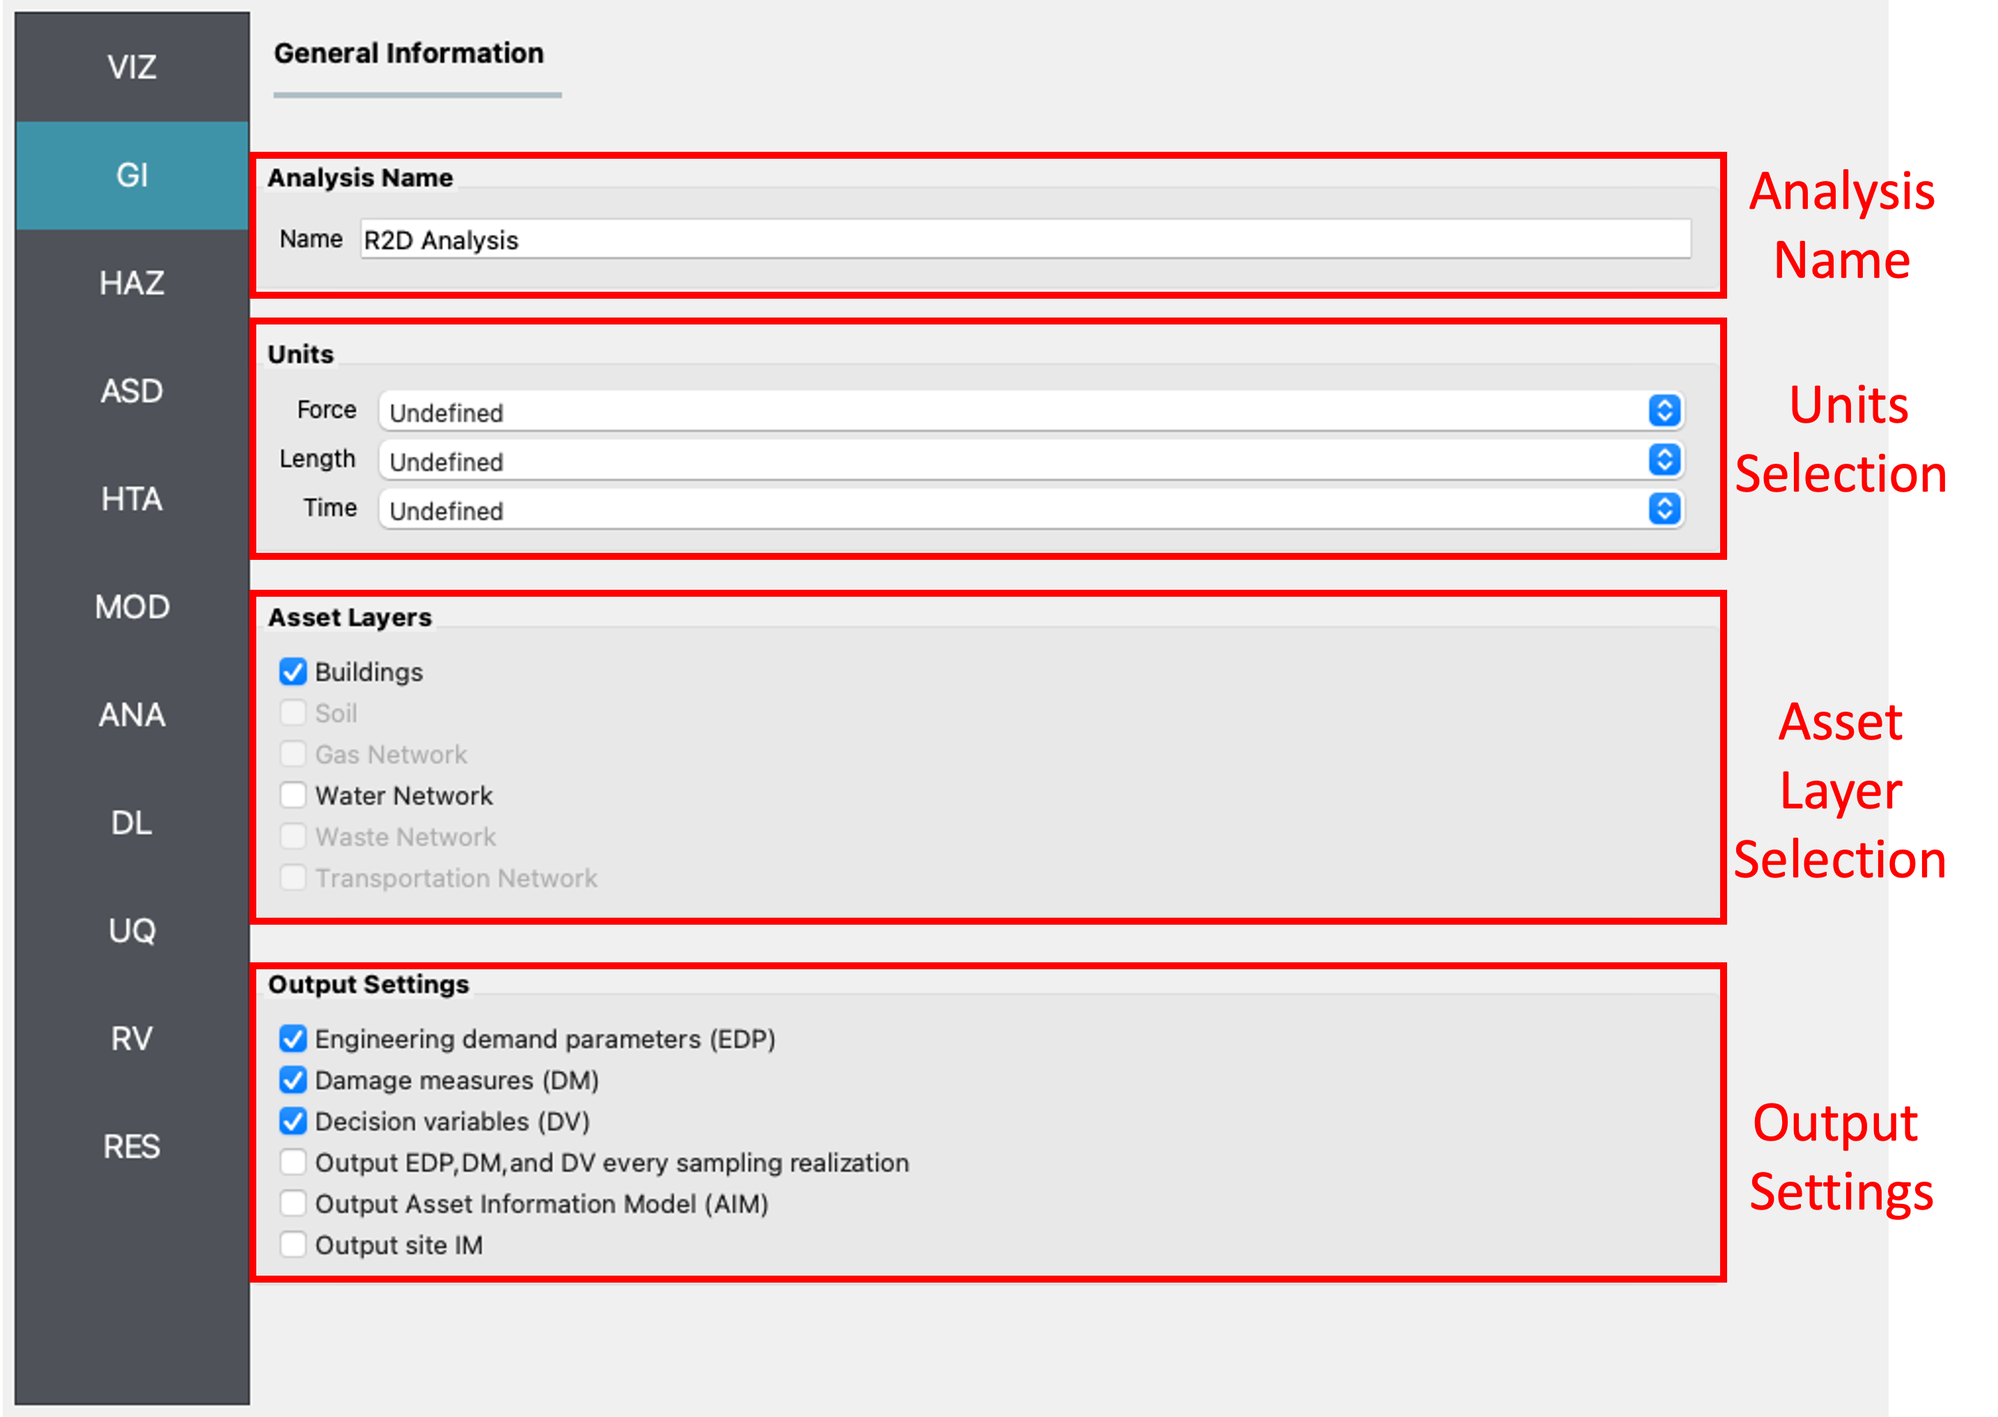
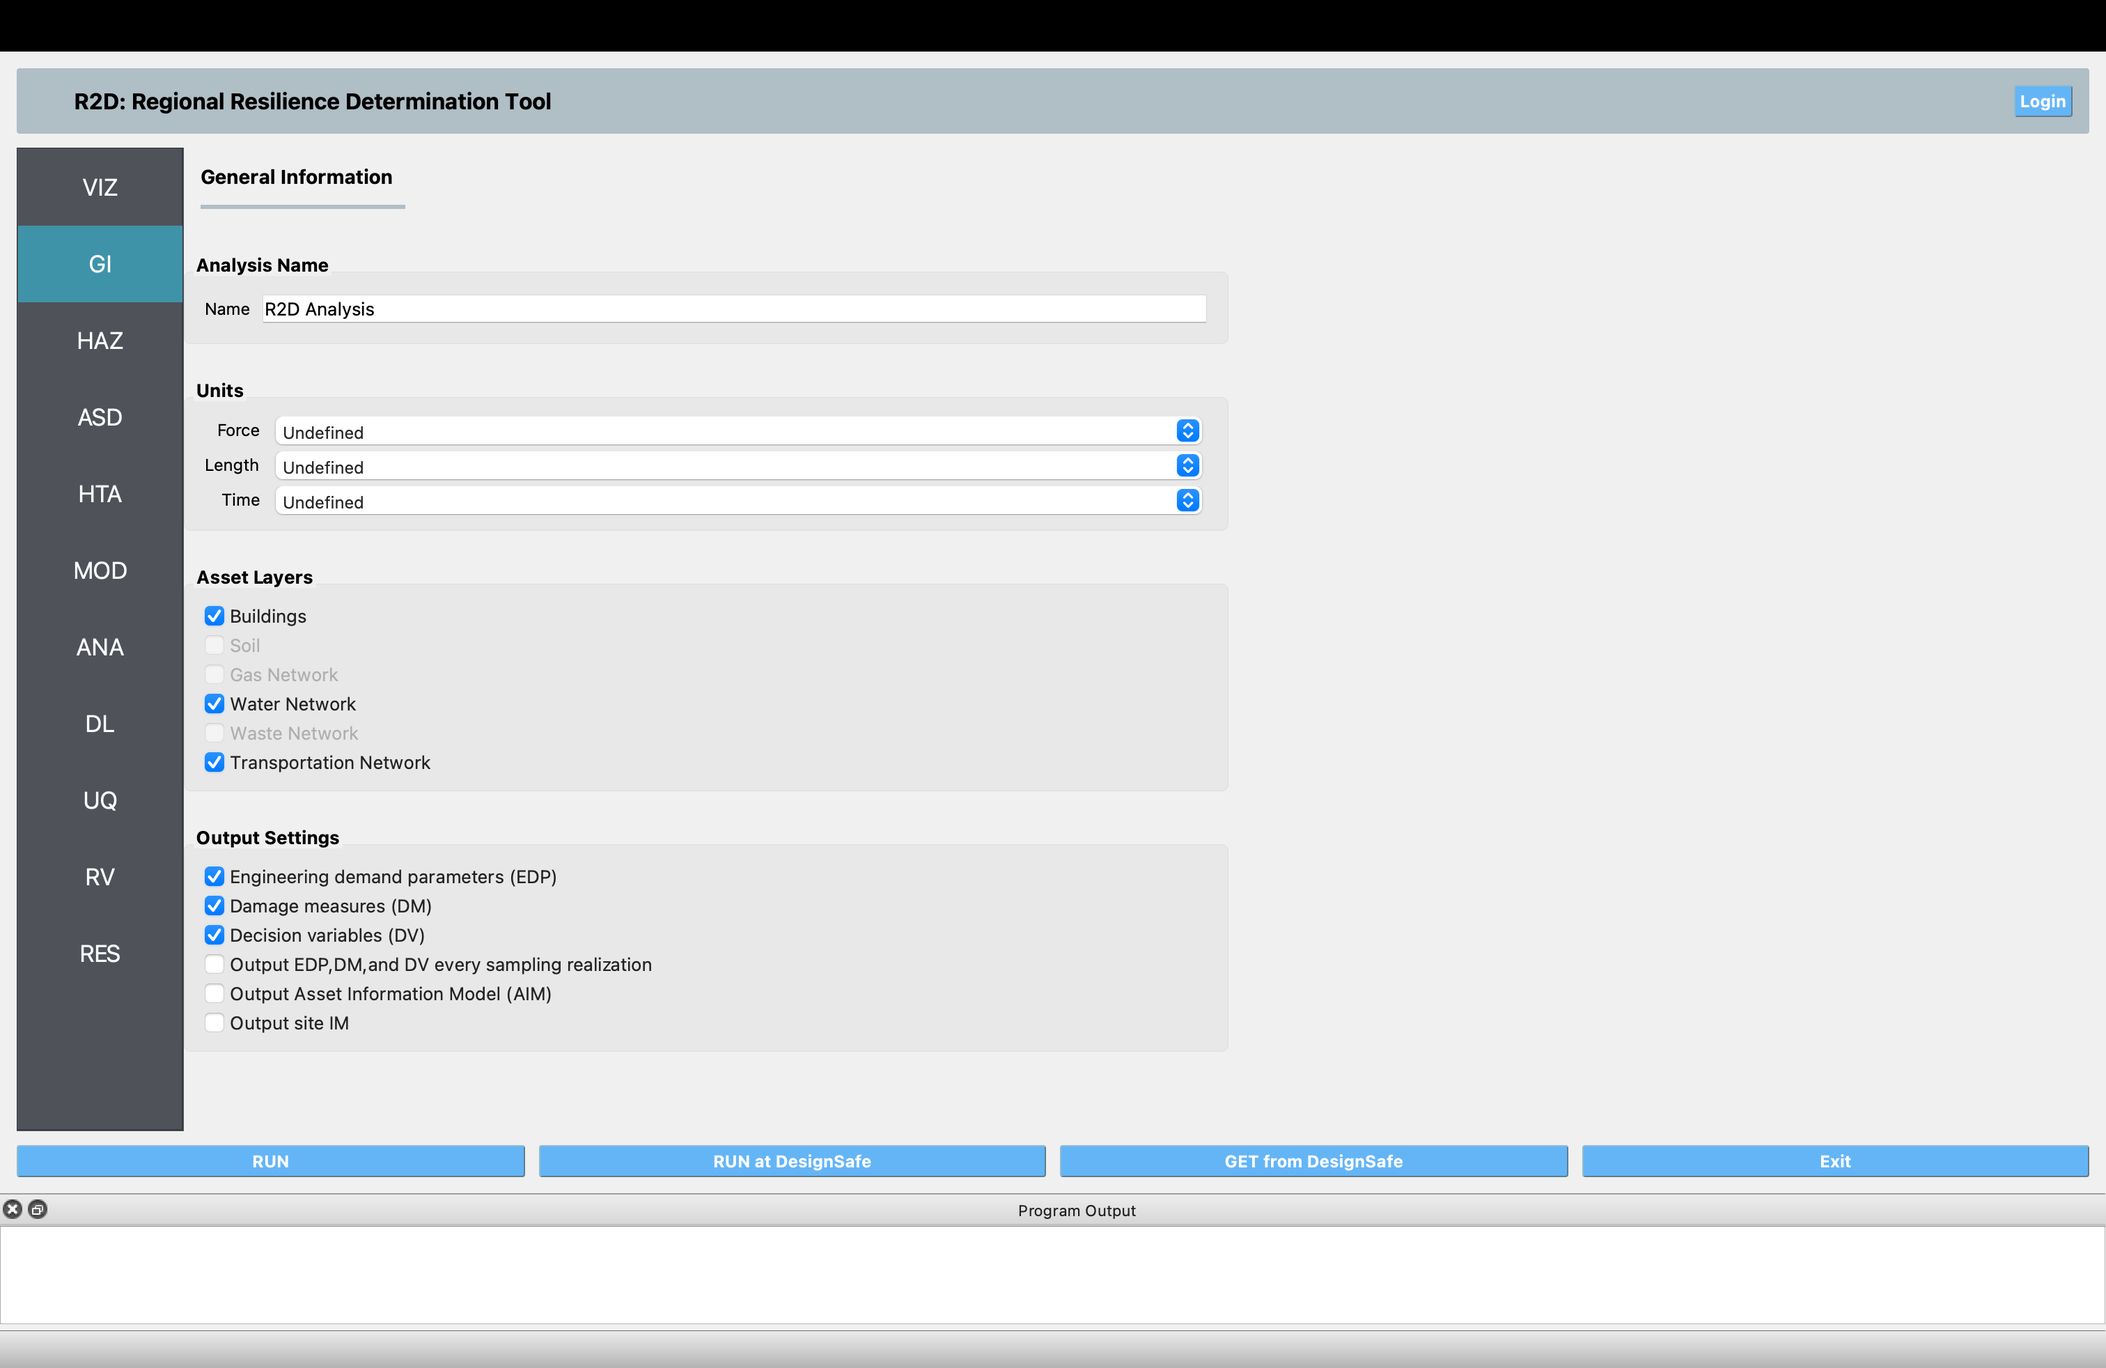
Initial commit to add transportation

Changed region(s): [[0.0, 0.0, 1.0, 1.0]]

diff --git a/docs/common/user_manual/usage/desktop/R2DTool/ASD.rst b/docs/common/user_manual/usage/desktop/R2DTool/ASD.rst
@@ -69,7 +69,7 @@ The **GIS to AIM** application imports a building inventory database from a user
 Regional Water Distribution Networks
 -------------------------------------
 
-The water distribution network input panel, as shown in :numref:`fig-wdnInputPanel`, allows a user to input the nodes and pipelines of a water distribution network. The **Regional Water Network Selection** combo box is where the user selects the application for the import of buildings, and for the generation of a building information model (AIM).
+The water distribution network input panel, as shown in :numref:`fig-wdnInputPanel`, allows a user to input the nodes and pipelines of a water distribution network. The **Regional Water Network Selection** combo box is where the user selects the application for the import of water distribution networks, and for the generation of a asset information model (AIM).
 
 CSV to Regional Water Network
 *****************************
@@ -118,4 +118,42 @@ The **Node and Pipeline Information** table, shown in :numref:`fig-WDNInputPanel
   :figclass: align-center
 
   GIS to regional water network input panel.
- 
+
+
+Regional Transportation Networks
+-------------------------------------
+The transportation network input panel, as shown in :numref:`fig-R2DTransportJsonInputPanel`, allows a user to input roadways, bridges, and tunnels in a transportation network. The **Transportation Network Selection** combo box is where the user selects the application for the import of transportation network and for the generation of asset information models (AIM). 
+
+JSON to Transportation Network AIM
+*****************************
+
+The **JSON to Transportation Network AIM** application imports a transportation network from a user-provided JSON file that contains information on highway bridges, tunnels, and/or roadways. Such a JSON file can be obtained with the BRIALS Transportation tool (see :numref:`lbl-BrailsTransportation`) in the **Tools** pull-down menu. The format of the JSON file is described in :numref:`lblTransportationInputOption1`
+If the selection filters are empty, all the transportation network components will be analyzed. Otherwise, only the selected components will be analyzed. Unlike buildings and water distribution networks, where the *first attribute* in the .csv or GIS files are used as the ID for the selection line edits, the transportation network components are selected according to their indices in the loaded JSON asset file, and the indices starts from 0. For example, if “0-4” is input to roadway selection line edit, the first five roadways in the loaded JSON file will be analyzed. 
+
+After loading the JSON file, the **JSON to Transportation Network AIM** application will first convert the roadways to a graph and combine the graph edges between roadway intersections (i.e., graph nodes with more than 2 neighbors) into one edge. If the combined edges are longer than the “Roadway length per AIM”, the application will break down the edges into n pieces, where n is the roundup integer of roadway length divided by roadway length per AIM. For example, the application will break a 150 m roadway into two 75 m roadways if the roadway length per AIM is set as 100 m. More examples can be found in the example E14 in :numref:`lbl-examples`.
+
+
+.. _fig-R2DTransportJsonInputPanel:
+
+.. figure:: figures/R2DTransportJsonInputPanel.png
+  :align: center
+  :figclass: align-center
+
+  JSON to regional transportation network input panel.
+
+GIS to Transportation Network AIM
+*****************************
+
+The **GIS to Transportation Network AIM** application imports a transportation network from user-provided GIS files that contain information on highway bridges, tunnels, and/or roadways.  The input panel is shown in :numref:`fig-R2DTransportGeoJsonInputPanel`. The GIS files can be in one of many common GIS file formats, e.g., shp, gdb, etc.
+
+The Path to Roadways/Bridges/Tunnels box is where the user supplies the file path to the GIS file that contains the roadways/bridges/tunnels features in the transportation network. At a minimum, the GIS file must contain a field providing the identification numbers (id), in **sequential order**. Any number of attributes can be added to the features to provide information that may be required by other applications in the workflow. R2D will load all feature attributes as columns in a table in a similar way to :numref:`fig-R2DWDNgisInputPanel`. Only the Roadways/Bridges/Tunnels selected in the corresponding selection box will be analyzed in the later part of the workflow. 
+
+The shape type (also called geometry type) of the roadway features must be 'LineString' and the shape type of the bridges and tunnels must be "Point". The **GIS to Transportation Network AIM** takes the first Point in the roadway 'LineString' as the start node and the last Point in the roadway 'LineString' as the end node. The application will creat a graph by looking for the 'LineString's that share start or end nodes. The application will then break down the roadways longer than "Roadway length per AIM" to segments as described in the **JSON to Transportation Network AIM** application. The creation of graph from roadway is achieved with the Python package `momepy <https://docs.momepy.org/en/stable/user_guide/graph/convert.html>`_. An example can be found in the example E14 in :numref:`lbl-examples`.
+
+.. _fig-R2DTransportGeoJsonInputPanel:
+
+.. figure:: figures/R2DTransportGeoJsonInputPanel.png
+  :align: center
+  :figclass: align-center
+
+  GIS to regional transportation network input panel.

diff --git a/docs/common/user_manual/usage/desktop/R2DTool/HAZ.rst b/docs/common/user_manual/usage/desktop/R2DTool/HAZ.rst
@@ -19,7 +19,7 @@ In this panel the user can define or simulate hazards over a region. The user ca
 User-specified Ground Motions
 -----------------------------
 
-The **User-specified Ground Motion** application loads the results of an **Earthquake Scenario Simulation** that was run previously. The **User-specified Earthquakes** application input pane is given in :numref:`fig-UserSelectEQ`. As seen in the figure, the user is required to input the file path to the ``EventGrid.csv`` file in the `Event File Listing Motions Field`. If the ground motions are not in the same folder as the ``EventGrid.csv`` file, then the user needs to input the directory path to the folder containing the ground motions. Users also need to specify the units of the ground motion field.
+The **User-specified Ground Motion** application loads the results of an **Earthquake Scenario Simulation** that was run previously. The **User-specified Earthquakes** application input pane is given in :numref:`fig-UserSelectEQ`. As seen in the figure, the user is required to input the file path to the ``EventGrid.csv`` file in the `Event File Listing Motions Field`. If the ground motions are not in the same folder as the ``EventGrid.csv`` file, then the user needs to input the directory path to the folder containing the ground motions. Users also need to specify the units of the ground motion field. Both ground shaking (See :ref:`Example E1-E4 <lbl-examples>`) and ground failure (See :ref:`Example E5 and E14 <lbl-examples>`) can be analyzed in the current version.
 
 .. _fig-UserSelectEQ:
 
@@ -34,7 +34,7 @@ The **User-specified Ground Motion** application loads the results of an **Earth
 ShakeMap Earthquake Scenarios
 -----------------------------
 
-The **ShakeMap Earthquake Scenario** application provides the functionality to import a USGS ShakeMap earthquake hazard. The **ShakeMap Earthquake Scenario** application input pane is given in :numref:`fig-R2DShakeMapPane`. As seen in the figure, the user is required to input a path to a folder on the user's computer that contains the ShakeMap data. At a minimum, the folder must contain a ``grid.xml`` file that provides the ground motion intensity measures, e.g., PGA, PGV, over a geographical grid. To visualize the PGA contours or rupture in the GIS window, a user can also provide the ``cont_pga.json`` file, or ``rupture.json`` file, respectively. Note that more than one ShakeMap can be input. However, the ShakeMap that is selected in the **List of ShakeMaps** tree in :numref:`fig-R2DShakeMapPane`, is the one that is employed in the subsequent analysis. The user also has the option to select the type of intensity measure they want from the ShakeMap grid. 
+The **ShakeMap Earthquake Scenario** application provides the functionality to import a USGS ShakeMap earthquake hazard. The **ShakeMap Earthquake Scenario** application input pane is given in :numref:`fig-R2DShakeMapPane`. As seen in the figure, the user is required to input a path to a folder on the user's computer that contains the ShakeMap data. At a minimum, the folder must contain a ``grid.xml`` file (e.g., downloaded from `this <https://earthquake.usgs.gov/product/shakemap-scenario/ushaywiredm7.05_se/us/1484100039013/download/grid.xml>`_ page) that provides the ground motion intensity measures, e.g., PGA, PGV, over a geographical grid. To visualize the PGA contours or rupture in the GIS window, a user can also provide the ``cont_pga.json`` file, or ``rupture.json`` file, respectively. Note that more than one ShakeMap can be input. However, the ShakeMap that is selected in the **List of ShakeMaps** tree in :numref:`fig-R2DShakeMapPane`, is the one that is employed in the subsequent analysis. The user also has the option to select the type of intensity measure they want from the ShakeMap grid. 
 
 .. _fig-R2DShakeMapPane:
 
@@ -53,7 +53,10 @@ After a ShakeMap is loaded, it will appear in the list of ShakeMaps shown above 
   :figclass: align-center
 
   ShakeMap visualization.
-  
+.. note:: 
+   R2D will create one .csv file containing the ground motion intensity measures at each grid point in the ``grid.xml`` file. The files will be stored in a similar format as the ground motion files used in the **User-specified Ground Motion** application. As shown in :numref:`fig-R2DShakeMapOutput`, the number of grid point is usually large (sometimes over 10 thousand). Although creating such a number of .csv files is fast in Unix-like operating systems, it may be particular slow (around 5 minutes for 10,000 grid points) on a Windows machine. As a result, consider trimming or subsampling the ``grid.xml`` file downloaded from USGS's ShakeMap website, if fast computation is desired for testing or debugging purposes.
+
+
 .. [SnaikiWu2017a]
    Snaiki, R. and Wu, T. (2017a). Modeling tropical cyclone boundary layer: Height-resolving pressure and wind fields. Journal of Wind Engineering and Industrial Aerodynamics, 170, pp. 18-27.
 

diff --git a/docs/common/developer_manual/architecture/desktop/file-types/Inputs.rst b/docs/common/developer_manual/architecture/desktop/file-types/Inputs.rst
@@ -17,6 +17,36 @@ The header schema, followed by an example input, are provided. Definitions for t
    :header-rows: 2
    :align: center
 
+.. _lblTransportationInputOption1:
+
+.. jsonschema:: File_Schema.json#/properties/Inputs/transportationSourceFile1
+
+A JSON file containing highway transportation roadways, bridges, and tunnels for the response simulation and damage/loss estimation steps of the workflow. This file contains all the information necessary for constructing AIM files for each bridge, tunnel, and roadway. The JSON file must contain the "nodes" object and at lease one of the "hwy_bridges", "hwy_tunnels", and "roadways" object. Involved key-item pairs are:",
+
+* "hwy_bridges": A JSON array of JSON Objects, each containing the following key/item pairs
+
+.. csv-table:: InputDataSchemaBridge.csv
+   :file: files/InputDataSchemaBridge.csv
+   :header-rows: 2
+   :align: center
+* "hwy_tunnels": A JSON array of JSON Objects, each containing the following key/item pairs
+
+.. csv-table:: InputDataSchemaTunnel.csv
+   :file: files/InputDataSchemaTunnel.csv
+   :header-rows: 2
+   :align: center
+* "roadways": A JSON array of JSON Objects, each containing the following key/item pairs
+
+.. csv-table:: InputDataSchemaRoadway.csv
+   :file: files/InputDataSchemaRoadway.csv
+   :header-rows: 2
+   :align: center
+* "nodes": A long JSON Objects containing the following key/item pairs
+
+.. csv-table:: InputDataSchemaTransportNode.csv
+   :file: files/InputDataSchemaTransportNode.csv
+   :header-rows: 1
+   :align: center
 
 
 .. jsonschema:: File_Schema.json#/properties/Inputs/modelFile

diff --git a/docs/common/user_manual/usage/desktop/R2DTool/GI.rst b/docs/common/user_manual/usage/desktop/R2DTool/GI.rst
@@ -9,7 +9,7 @@ The **General Information** panel allows the user to provide information about t
 
 #. **Units Selection**: Collects information about the units used in the inputs and outputs. Some widgets will require inputs in different units. Those widgets will display units beside those special entry fields.
 
-#. **Asset Layer Selection**: This is where the user can select the asset classes to include in a regional analysis. When a user selects a particular asset class, the corresponding panel for that asset will appear in the other input panels, such as in the **ASD: Asset Definition** and **MOD: Asset Modeling** input panels. Note that only the analysis of buildings is supported in the current version. 
+#. **Asset Layer Selection**: This is where the user can select the asset classes to include in a regional analysis. When a user selects a particular asset class, the corresponding panel for that asset will appear in the other input panels, such as in the **ASD: Asset Definition** and **MOD: Asset Modeling** input panels. Note that only the analysis of buildings, water networks, and transportation networks are supported in the current version. 
 
 #. **Output Settings**: The user can specify the level of output detail provided in the results. 
 

diff --git a/docs/common/user_manual/usage/desktop/R2DTool/BRAILSTransportation.rst b/docs/common/user_manual/usage/desktop/R2DTool/BRAILSTransportation.rst
@@ -1,0 +1,8 @@
+.. _lbl-BrailsTransportation:
+
+BRAILS - Transportation
+------
+
+This tool dialog creates a transportation asset inventory from the US Department of Transportation's `National Bridge Inventory (NBI) <https://geo.dot.gov/mapping/rest/services/NTAD/National_Bridge_Inventory/MapServer>`_, the `National Tunnel Inventory (NTI) <https://geo.dot.gov/mapping/rest/services/NTAD/National_Tunnel_Inventory/MapServer>`_, and the US Census Bureau's `TIGERweb roadway inventory <https://tigerweb.geo.census.gov/arcgis/rest/services/TIGERweb/Transportation/MapServer>`_.
+
+The output of the inventory is four GeoJSON files. Each contains the asset information of the bridges, tunnels, roads, and railroads in the user-specified region. BRAILS also outputs a JSON file in the format described in :numref:`lblTransportationInputOption1`, which contains all information in the GeoJSON files.

diff --git a/docs/common/user_manual/usage/desktop/R2DTool/ANA.rst b/docs/common/user_manual/usage/desktop/R2DTool/ANA.rst
@@ -39,3 +39,9 @@ IM as EDP Analysis Model
 *************************
 
 The **IM as EDP** application forgoes a structural analysis altogether. In this case, the hazard intensity measure (IM) is considered the engineering demand parameter (EDP). 
+
+
+
+Transportation Networks
+-----------------------
+Only the Intensity Measure as Engineering Demand Parameter (**IMasEDP**) type of analysis is supported for transportation network damage and loss analysis now. The **IMasEDP** application forgoes a structural analysis altogether. In this case, the hazard intensity measure (IM) is considered the engineering demand parameter (EDP).

diff --git a/docs/common/user_manual/usage/desktop/R2DTool/MOD.rst b/docs/common/user_manual/usage/desktop/R2DTool/MOD.rst
@@ -59,5 +59,10 @@ The **OpenSeesPy** building modeling application creates an OpenSeesPy structura
   OpenSeesPy Building model input panel.
 
 
+Transportation Networks
+-----------------------
+Only the Intensity Measure as Engineering Demand Parameter (**IMasEDP**) type of analysis is supported for transportation network damage and loss analysis now. The asset models should be **None** for **IMasEDP** analyses. 
+
+
 
 

diff --git a/docs/common/user_manual/usage/desktop/R2DTool/tools.rst b/docs/common/user_manual/usage/desktop/R2DTool/tools.rst
@@ -10,7 +10,8 @@ The main menu toolbar contains the tools dropdown menu. Tools in R2D are applica
 .. include:: OpenQuake.rst	     
 .. include:: HurricaneScenario.rst
 .. include:: CensusData.rst
-.. include:: BRAILS.rst	     	     	     
+.. include:: BRAILSBuildings.rst
+.. include:: BRAILSTransportation.rst	     	     	     
 
 
 

diff --git a/docs/common/user_manual/usage/desktop/R2DTool/BRAILSBuildings.rst b/docs/common/user_manual/usage/desktop/R2DTool/BRAILSBuildings.rst
@@ -1,4 +1,4 @@
-BRAILS
+BRAILS - Buildings
 ------
 
 This tool dialog will create a building asset inventory from images of buildings in a region.
